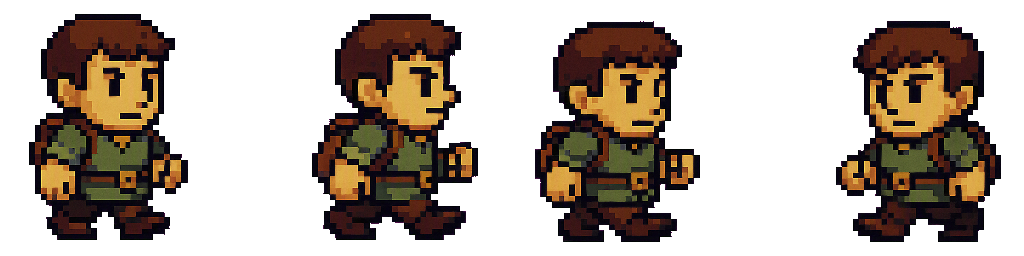
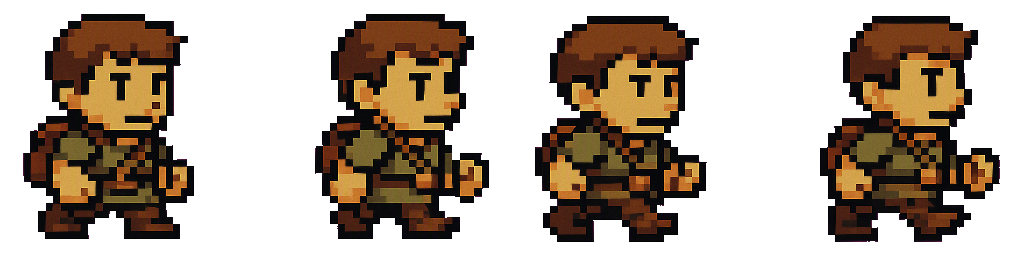
fix(sprites): correct facing-direction/detail-parity defects and player texture reconciliation
- Fix female/male/other walk-cycle facing-direction inconsistencies flagged
  by vision-judge review (one frame in each of female/male sheets faced the
  wrong direction, breaking the walk cycle). Encoded explicit CRITICAL FACING
  DIRECTION guidance in all three briefs to prevent regeneration regressions.
- Fix the 'other' (gender-neutral) sheet's detail-parity defect: it rendered
  at a visibly lower pixel-art detail/line-weight than its female/male
  siblings. Encoded CRITICAL DETAIL PARITY guidance in all three briefs.
- Regenerated and re-approved all three sheets against the fixed briefs;
  zero sensor threshold relaxation.
- Fix a player-visual staleness bug in PhaserBridge.ts: the per-entity visual
  cache is keyed only by visualType ('player'), so a gender change after the
  visual object already existed (e.g. re-entering via carryover) never
  triggered the create/recreate branch and could keep showing a stale
  gender's texture. Added a reconciliation check (mirroring the existing
  enemy late-load reconcile) that re-resolves the appearanceKey-preferred
  texture every frame and swaps texture/recreates as a Sprite when needed.
- Fix movement-lab's PLAYER_WALK_TEXTURE_KEY, which pointed at a nonexistent
  placeholder asset/descriptor, to reference the real shipped
  player-walk-cycle-female production asset.

Re-verified all three genders in the running game (npm run dev): distinct
art, correct on-screen scale, stable floor line, correct facing/flip.

diff --git a/src/engine/PhaserBridge.ts b/src/engine/PhaserBridge.ts
@@ -1222,7 +1222,7 @@ export function createPhaserBridge(scene: Phaser.Scene): {
           visuals.set(eid, visual);
         }
 
-        const img = visual.obj;
+        let img = visual.obj;
         if (entityType === 'enemy') {
           const preferred = resolvePreferredTexture(visualType, {
             appearanceKey,
@@ -1255,6 +1255,43 @@ export function createPhaserBridge(scene: Phaser.Scene): {
           if (img.texture.key !== preferred.key) {
             img.setTexture(preferred.key, preferred.frame);
             visual.baseScale = preferred.scale;
+          }
+        }
+        if (entityType === 'player') {
+          // The player visual may be created (e.g. on floor-load / carryover)
+          // before its gender-keyed generated texture has finished loading, or
+          // may still be showing another gender's texture from a stale
+          // `visuals` cache entry keyed only by `visualType` (which is always
+          // 'player', so the type-mismatch recreate branch above never fires
+          // on a gender change). Reconcile to the appearanceKey-preferred
+          // texture whenever it differs so the walk sprite always matches
+          // `world.playerGender` (mirrors the enemy/NPC late-load reconcile
+          // above).
+          const preferred = resolvePreferredTexture(visualType, { appearanceKey });
+          if (img.texture.key !== preferred.key) {
+            img.setTexture(preferred.key, preferred.frame);
+            visual.baseScale = preferred.scale;
+            if (
+              generatedAnimationByTexture.has(preferred.key) &&
+              (img as Partial<Phaser.GameObjects.Sprite>).anims === undefined &&
+              typeof scene.add.sprite === 'function'
+            ) {
+              // The cached visual was created as a plain Image (no `.anims` —
+              // no walk animation was registered for its texture at creation
+              // time), but the reconciled texture DOES have one. An Image can
+              // never play a Phaser animation, so recreate it as a Sprite in
+              // place (mirrors the `hasWalkAnimation` branch above).
+              const { x: px, y: py } = img;
+              img.destroy();
+              const sprite =
+                preferred.frame !== undefined
+                  ? scene.add.sprite(px, py, preferred.key, preferred.frame)
+                  : scene.add.sprite(px, py, preferred.key);
+              sprite.setScale(preferred.scale);
+              visual = { obj: sprite, type: visualType, baseScale: preferred.scale };
+              visuals.set(eid, visual);
+              img = sprite;
+            }
           }
         }
         let isVisible = true;

diff --git a/src/labs/movement-lab/index.ts b/src/labs/movement-lab/index.ts
@@ -44,16 +44,22 @@ const GRID_SIZE_FT = 6;
 const ENEMY_COUNT = 10;
 const ENEMY_MARGIN_FT = 4;
 const LAB_ID = 'movement-lab';
-const PLAYER_WALK_TEXTURE_KEY = 'player-walk-cycle';
+// Points at the real, currently-shipped `female` gender walk-cycle texture
+// (public/assets/generated/entries/player-walk-cycle-female.json) so the lab
+// renders actual production art instead of a stale placeholder key that no
+// longer matches anything the real game loads. This registry entry must be
+// kept in sync with that shard's `animation` descriptor — see
+// docs/knowledge/handoffs/2026-07-30-gender-player-walk-cycles.md.
+const PLAYER_WALK_TEXTURE_KEY = 'player-walk-cycle-female';
 
 function buildMovementLabSpriteRegistry() {
   return buildGeneratedSpriteRegistry({
     version: 1,
     entries: {
       [PLAYER_WALK_TEXTURE_KEY]: {
-        briefId: PLAYER_WALK_TEXTURE_KEY,
+        briefId: 'player-walk-cycle-female',
         spriteName: PLAYER_WALK_TEXTURE_KEY,
-        assetPath: 'generated/player-walk-cycle.png',
+        assetPath: 'generated/player-walk-cycle-female.png',
         approvedAt: '2026-08-01T00:00:00.000Z',
         sourceRun: 'movement-lab',
         variantIndex: 0,
@@ -61,8 +67,8 @@ function buildMovementLabSpriteRegistry() {
         sensorScore: 'n/a',
         judgeScore: null,
         animation: {
-          frameWidth: 64,
-          frameHeight: 64,
+          frameWidth: 256,
+          frameHeight: 256,
           frameCount: 4,
           frameRate: 8,
           loop: true,
